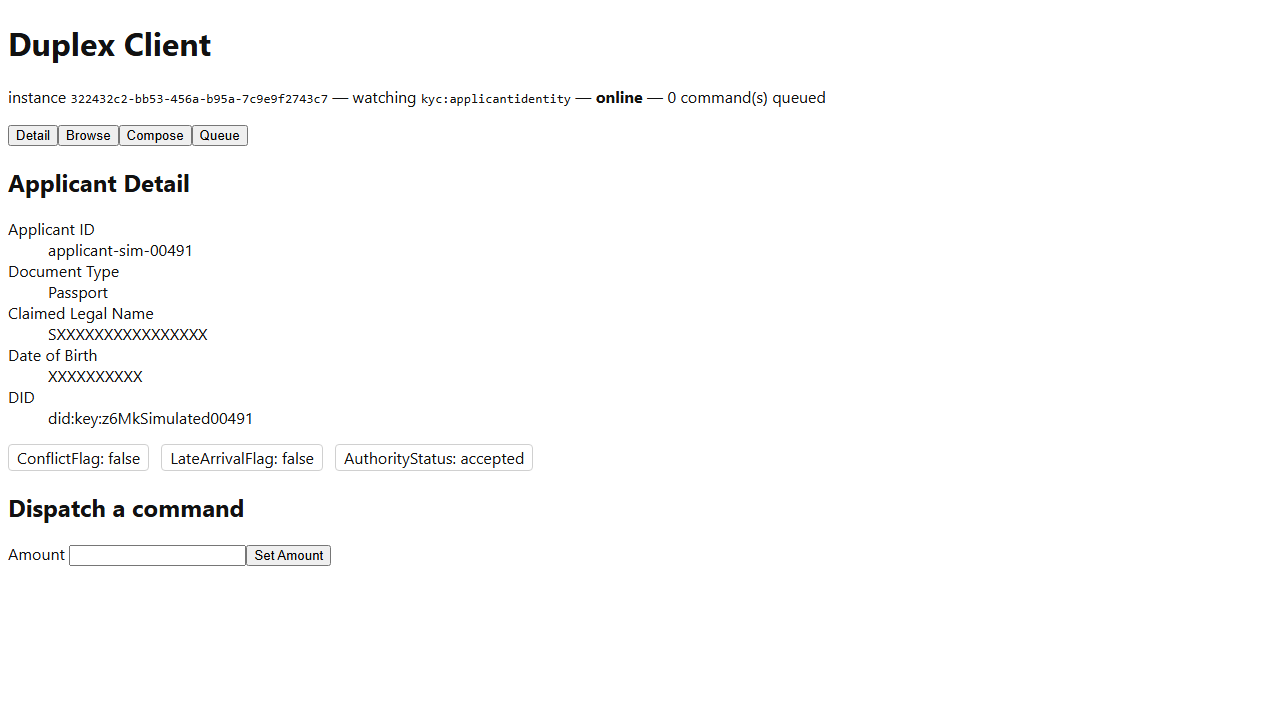
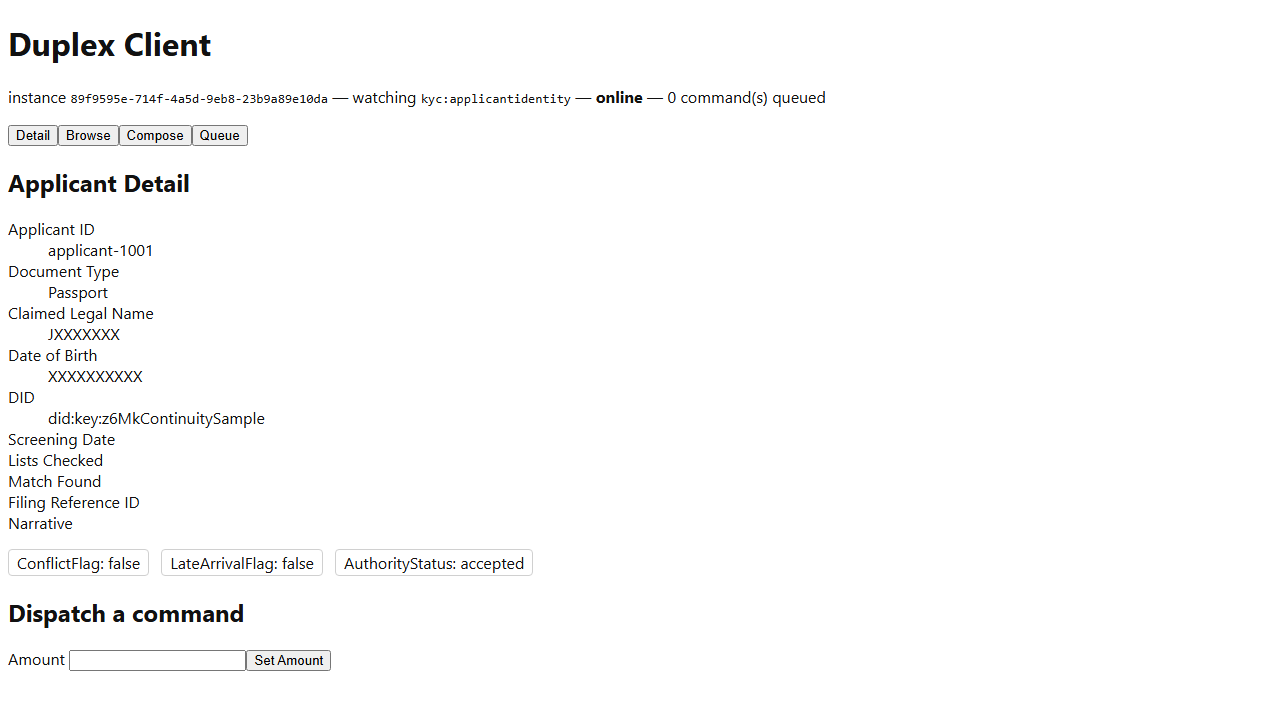
Extend ApplicantIdentity ViewDefinition to fix its payload-shape mismatch
Samples.Meridian.Seed's registered ApplicantIdentity template only
bound Workflow A's own five fields, so client-web-meridian-screening/
-sarfiling rendered almost entirely blank despite real published data.
Extended the one shared template with screeningDate/listsChecked/
matchFound/filingReferenceId/narrative bindings -- an unbound field
already renders '' harmlessly, so this costs nothing for instances
that don't have these fields. Five new translation keys added across
all three locales to match.

Both Meridian Workflow C playbooks regenerated and verified against a
live AppHost: Screening Date/Match Found and Filing Reference ID/masked
Narrative now render correctly. Checked the one remaining blank field
(ListsChecked, an array) before writing another TODO entry:
EventTypeSchemaReader.cs deliberately skips top-level array-typed
properties when building an event type's GraphQL payload at all --
an already-documented, previously-accepted narrowing, not a new gap.

TODO.md's ViewDefinition/payload-shape item is closed. Meridian
Workflow B (no client-web UI surface at all) is the only item left.

diff --git a/client-web/packages/mvvm-client/src/i18n/translations.ts b/client-web/packages/mvvm-client/src/i18n/translations.ts
@@ -34,6 +34,11 @@ export const placeholderTranslations: TranslationResources = {
     document_type: 'Document Type',
     claimed_legal_name: 'Claimed Legal Name',
     did: 'DID',
+    screening_date: 'Screening Date',
+    lists_checked: 'Lists Checked',
+    match_found: 'Match Found',
+    filing_reference_id: 'Filing Reference ID',
+    narrative: 'Narrative',
   },
   'fr-FR': {
     carrier_label: 'Transporteur',
@@ -50,6 +55,11 @@ export const placeholderTranslations: TranslationResources = {
     document_type: 'Type de document',
     claimed_legal_name: 'Nom légal déclaré',
     did: 'DID',
+    screening_date: 'Date de dépistage',
+    lists_checked: 'Listes vérifiées',
+    match_found: 'Correspondance trouvée',
+    filing_reference_id: 'Numéro de référence du dossier',
+    narrative: 'Récit',
   },
   'ar-SA': {
     carrier_label: 'شركة الشحن',
@@ -66,6 +76,11 @@ export const placeholderTranslations: TranslationResources = {
     document_type: 'نوع المستند',
     claimed_legal_name: 'الاسم القانوني المصرح به',
     did: 'المعرف اللامركزي (DID)',
+    screening_date: 'تاريخ الفحص',
+    lists_checked: 'القوائم التي تم فحصها',
+    match_found: 'تم العثور على تطابق',
+    filing_reference_id: 'رقم مرجع الملف',
+    narrative: 'السرد',
   },
 }
 

diff --git a/tests/EventStore.E2ETests/MeridianWorkflowCPeriodicScreeningPlaybookTests.cs b/tests/EventStore.E2ETests/MeridianWorkflowCPeriodicScreeningPlaybookTests.cs
@@ -103,16 +103,16 @@ public class MeridianWorkflowCPeriodicScreeningPlaybookTests
         // Unlike the Device/IonmAlert/AdverseEvent instances (no
         // ViewDefinition registered at all for those EntityTypes), a
         // Detail ViewDefinition genuinely IS registered for
-        // "applicantidentity" (Samples.Meridian.Seed) -- so, after the
-        // same transient fallback-before-resolution window documented on
-        // the other Meridian playbooks, this one settles on the real
-        // templated render too, even though that template's own bound
-        // fields (applicantId/documentType/claimedLegalName/dateOfBirth/
-        // did) don't match SanctionsScreeningPerformed's payload shape at
-        // all -- a genuine, real finding, not another timing artifact.
+        // "applicantidentity" (Samples.Meridian.Seed) -- after the same
+        // transient fallback-before-resolution window documented on the
+        // other Meridian playbooks, this one settles on the real templated
+        // render, which now includes screeningDate/listsChecked/matchFound
+        // bindings alongside Workflow A's own five (TODO.md's tracked
+        // ViewDefinition/payload-shape mismatch, fixed by extending the
+        // one shared template rather than by building a second one).
         var templatedView = _page.GetByLabel("Entity (ViewDefinition-rendered)");
         await Assertions.Expect(templatedView).ToBeVisibleAsync();
-        await recorder.RecordStepAsync(_page, "Selecting applicant-1001 opens its Detail view. The registered ApplicantIdentity template renders here too, but its own bound fields (applicantId, documentType, claimedLegalName, dateOfBirth, did) don't match this subscription's SanctionsScreeningPerformed payload shape at all -- every field but applicantId renders blank. ScreeningDate/ListsChecked/MatchFound are real, published data (Samples.Meridian.Seed), just not reachable through this particular template -- a genuine ViewDefinition/payload-shape mismatch, not a masking or subscription defect.");
+        await recorder.RecordStepAsync(_page, "Selecting applicant-1001 opens its Detail view. The registered ApplicantIdentity template now covers this event type's own fields too -- Screening Date (2026-07-30, the later, matched screening -- this instance's entity cache reflects the most recent SanctionsScreeningPerformed for this applicant) and Match Found (true). Lists Checked renders blank -- EventTypeSchemaReader.cs deliberately skips top-level array-typed properties when building this GraphQL payload type at all (an already-documented, accepted narrowing, not a new gap), so ListsChecked was never selectable to begin with. Document Type/Claimed Legal Name/Date of Birth/DID stay blank here, same reasoning as before: those are IdentityClaimSubmitted's own fields, not this subscription's.");
 
         await recorder.WriteMarkdownAsync("Meridian -- Workflow C: Periodic Screening and SAR Escalation (screening half only)");
 

diff --git a/src/Samples.Meridian.Seed/Program.cs b/src/Samples.Meridian.Seed/Program.cs
@@ -48,6 +48,22 @@ var publisher = new PublishService(db, registry, new PostgresUniqueConstraintVio
 await MeridianWorkflowA.RegisterAsync(registry);
 await MeridianWorkflowC.RegisterAsync(registry);
 
+// Fields beyond IdentityClaimSubmitted's own five (ApplicantId through
+// Did) were added after finding, via a real UI-playbook screenshot
+// (TODO.md), that client-web-meridian-screening/client-web-meridian-
+// sarfiling's own subscriptions (SanctionsScreeningPerformed/
+// SarFilingRecorded) render this SAME template but almost entirely
+// blank -- their payload fields were never bound here at all. Adding
+// them costs nothing for the instances that don't have them (an unbound
+// field's own {{ field }} interpolation already renders '' when
+// entry.data lacks that key, TemplateRenderer.vue's own documented
+// behavior) and gives the screening/SAR instances real content instead
+// of a near-empty screen. MatchedName/MatchedListEntryId (x-masking,
+// requiredClaim identity:aml-review) deliberately left out -- neither
+// client instance's own login claim set is expected to hold that claim,
+// so they'd only ever show a masked placeholder, unlike Narrative below
+// (also x-masking'd the same way, but worth including anyway as a live
+// masking demonstration, matching LegalName/ClaimedLegalName elsewhere).
 var viewResult = await views.RegisterAsync(new RegisterViewDefinitionRequest(
     "ApplicantIdentity", "Detail", [1],
     """
@@ -59,6 +75,11 @@ var viewResult = await views.RegisterAsync(new RegisterViewDefinitionRequest(
         <dt>{{ t:claimed_legal_name }}</dt><dd>{{ claimedLegalName }}</dd>
         <dt>{{ t:date_of_birth }}</dt><dd>{{ dateOfBirth:date }}</dd>
         <dt>{{ t:did }}</dt><dd>{{ did }}</dd>
+        <dt>{{ t:screening_date }}</dt><dd>{{ screeningDate }}</dd>
+        <dt>{{ t:lists_checked }}</dt><dd>{{ listsChecked }}</dd>
+        <dt>{{ t:match_found }}</dt><dd>{{ matchFound }}</dd>
+        <dt>{{ t:filing_reference_id }}</dt><dd>{{ filingReferenceId }}</dd>
+        <dt>{{ t:narrative }}</dt><dd>{{ narrative }}</dd>
       </dl>
     </section>
     """));

diff --git a/tests/EventStore.E2ETests/MeridianWorkflowCSarFilingPlaybookTests.cs b/tests/EventStore.E2ETests/MeridianWorkflowCSarFilingPlaybookTests.cs
@@ -95,7 +95,7 @@ public class MeridianWorkflowCSarFilingPlaybookTests
         await applicantRow.GetByRole(AriaRole.Button, new() { Name = "View" }).ClickAsync();
         var templatedView = _page.GetByLabel("Entity (ViewDefinition-rendered)");
         await Assertions.Expect(templatedView).ToBeVisibleAsync();
-        await recorder.RecordStepAsync(_page, "Selecting applicant-1001 opens its Detail view. The registered ApplicantIdentity template renders here too (same mismatch as the periodic-screening playbook -- its bound fields don't cover SarFilingRecorded's own payload shape either), so only applicantId shows; the FilingReferenceId (SAR-2026-00417), TargetScreeningEventId, and masked Narrative are genuinely published but not reachable through this particular template.");
+        await recorder.RecordStepAsync(_page, "Selecting applicant-1001 opens its Detail view. The registered ApplicantIdentity template now covers this event type's own fields too (TODO.md's ViewDefinition/payload-shape mismatch, fixed by extending the one shared template): Filing Reference ID (SAR-2026-00417) renders plainly, and Narrative renders masked (\"***\") -- a live demonstration of x-masking on this specific field (MeridianWorkflowC.cs's own requiredClaim: identity:aml-review), not a rendering gap.");
 
         await recorder.WriteMarkdownAsync("Meridian -- Workflow C: SAR Filing");
 

diff --git a/docs/playbooks/meridian/workflow-c-periodic-screening-and-sar-escalation.md b/docs/playbooks/meridian/workflow-c-periodic-screening-and-sar-escalation.md
@@ -10,7 +10,7 @@ _Generated by `EventStore.E2ETests` against a real running deployment -- re-run 
 
 ![Switching to the Browse tab. The seed continuity applicant applicant-1001's periodic sanctions screening (Samples.Meridian.Seed) is already present via REPLAY-mode catch-up.](workflow-c-periodic-screening-and-sar-escalation/step-02.png)
 
-## Step 3. Selecting applicant-1001 opens its Detail view. The registered ApplicantIdentity template renders here too, but its own bound fields (applicantId, documentType, claimedLegalName, dateOfBirth, did) don't match this subscription's SanctionsScreeningPerformed payload shape at all -- every field but applicantId renders blank. ScreeningDate/ListsChecked/MatchFound are real, published data (Samples.Meridian.Seed), just not reachable through this particular template -- a genuine ViewDefinition/payload-shape mismatch, not a masking or subscription defect.
+## Step 3. Selecting applicant-1001 opens its Detail view. The registered ApplicantIdentity template now covers this event type's own fields too -- Screening Date (2026-07-30, the later, matched screening -- this instance's entity cache reflects the most recent SanctionsScreeningPerformed for this applicant) and Match Found (true). Lists Checked renders blank -- EventTypeSchemaReader.cs deliberately skips top-level array-typed properties when building this GraphQL payload type at all (an already-documented, accepted narrowing, not a new gap), so ListsChecked was never selectable to begin with. Document Type/Claimed Legal Name/Date of Birth/DID stay blank here, same reasoning as before: those are IdentityClaimSubmitted's own fields, not this subscription's.
 
-![Selecting applicant-1001 opens its Detail view. The registered ApplicantIdentity template renders here too, but its own bound fields (applicantId, documentType, claimedLegalName, dateOfBirth, did) don't match this subscription's SanctionsScreeningPerformed payload shape at all -- every field but applicantId renders blank. ScreeningDate/ListsChecked/MatchFound are real, published data (Samples.Meridian.Seed), just not reachable through this particular template -- a genuine ViewDefinition/payload-shape mismatch, not a masking or subscription defect.](workflow-c-periodic-screening-and-sar-escalation/step-03.png)
+![Selecting applicant-1001 opens its Detail view. The registered ApplicantIdentity template now covers this event type's own fields too -- Screening Date (2026-07-30, the later, matched screening -- this instance's entity cache reflects the most recent SanctionsScreeningPerformed for this applicant) and Match Found (true). Lists Checked renders blank -- EventTypeSchemaReader.cs deliberately skips top-level array-typed properties when building this GraphQL payload type at all (an already-documented, accepted narrowing, not a new gap), so ListsChecked was never selectable to begin with. Document Type/Claimed Legal Name/Date of Birth/DID stay blank here, same reasoning as before: those are IdentityClaimSubmitted's own fields, not this subscription's.](workflow-c-periodic-screening-and-sar-escalation/step-03.png)
 

diff --git a/docs/changes/2026-08-28.md b/docs/changes/2026-08-28.md
@@ -396,3 +396,40 @@ a small, mechanical seed addition.
   data) since every other gap in that category is now closed. The
   `ViewDefinition`/payload-shape mismatch is promoted to its own
   tracked item (found twice now, on two different event types).
+
+## Fixed the ViewDefinition/payload-shape mismatch, on direct "keep going" request
+
+Closed `TODO.md`'s remaining cosmetic finding with a minimal, seed-owned
+fix rather than a framework change: extended the `ApplicantIdentity`
+`ViewDefinition` template `Samples.Meridian.Seed` already registers with
+`screeningDate`/`listsChecked`/`matchFound`/`filingReferenceId`/
+`narrative` bindings alongside Workflow A's original five. An unbound
+field already renders `''` (`TemplateRenderer.vue`'s own documented
+behavior), so this costs nothing for instances that don't have these
+fields and gives the screening/SAR instances real content instead of a
+near-empty screen. `MatchedName`/`MatchedListEntryId` deliberately left
+out (masked, `identity:aml-review`-gated, no client instance's login is
+expected to hold that claim); `Narrative` (also masked the same way)
+included anyway as a live masking demonstration.
+
+- `client-web/packages/mvvm-client/src/i18n/translations.ts`: five new
+  keys (`screening_date`, `lists_checked`, `match_found`,
+  `filing_reference_id`, `narrative`) across all three locales, same
+  placeholder-quality bar as the existing set. `mvvm-client` suite
+  re-verified (110/110).
+- Both Meridian Workflow C playbooks regenerated and re-verified against
+  a live `AppHost`: Screening Date/Match Found now render on the
+  periodic-screening playbook, Filing Reference ID/masked Narrative
+  (`"***"`) on the SAR-filing one.
+- **One new, small, separate observation while checking the result**:
+  `ListsChecked` (a JSON array field) still renders blank. Checked the
+  real cause before writing another vague TODO entry:
+  `EventTypeSchemaReader.cs` deliberately skips top-level array-typed
+  properties when building an event type's GraphQL payload type at all
+  — an already-documented, previously-accepted narrowing (its own code
+  comment, and `docs/changes/2026-08-03.md`/`2026-08-04.md`), not a new
+  gap. No new `TODO.md` item added; the playbook's own caption states
+  the real reason instead.
+- All 8 playbook tests re-verified passing together against a live
+  `AppHost`. `TODO.md`'s `ViewDefinition`/payload-shape item removed —
+  Meridian Workflow B (no UI surface at all) is now the only item left.

diff --git a/docs/playbooks/meridian/workflow-c-sar-filing.md b/docs/playbooks/meridian/workflow-c-sar-filing.md
@@ -10,7 +10,7 @@ _Generated by `EventStore.E2ETests` against a real running deployment -- re-run 
 
 ![Switching to the Browse tab. The seed's SAR filing for applicant-1001 (Samples.Meridian.Seed) is already present via REPLAY-mode catch-up -- a compliance officer's step-up-authenticated publish, gated by MeridianWorkflowC.cs's RequiredSignature: ["urn:kyc:acr:step-up"] (RFC 9470, ADR-066).](workflow-c-sar-filing/step-02.png)
 
-## Step 3. Selecting applicant-1001 opens its Detail view. The registered ApplicantIdentity template renders here too (same mismatch as the periodic-screening playbook -- its bound fields don't cover SarFilingRecorded's own payload shape either), so only applicantId shows; the FilingReferenceId (SAR-2026-00417), TargetScreeningEventId, and masked Narrative are genuinely published but not reachable through this particular template.
+## Step 3. Selecting applicant-1001 opens its Detail view. The registered ApplicantIdentity template now covers this event type's own fields too (TODO.md's ViewDefinition/payload-shape mismatch, fixed by extending the one shared template): Filing Reference ID (SAR-2026-00417) renders plainly, and Narrative renders masked ("***") -- a live demonstration of x-masking on this specific field (MeridianWorkflowC.cs's own requiredClaim: identity:aml-review), not a rendering gap.
 
-![Selecting applicant-1001 opens its Detail view. The registered ApplicantIdentity template renders here too (same mismatch as the periodic-screening playbook -- its bound fields don't cover SarFilingRecorded's own payload shape either), so only applicantId shows; the FilingReferenceId (SAR-2026-00417), TargetScreeningEventId, and masked Narrative are genuinely published but not reachable through this particular template.](workflow-c-sar-filing/step-03.png)
+![Selecting applicant-1001 opens its Detail view. The registered ApplicantIdentity template now covers this event type's own fields too (TODO.md's ViewDefinition/payload-shape mismatch, fixed by extending the one shared template): Filing Reference ID (SAR-2026-00417) renders plainly, and Narrative renders masked ("***") -- a live demonstration of x-masking on this specific field (MeridianWorkflowC.cs's own requiredClaim: identity:aml-review), not a rendering gap.](workflow-c-sar-filing/step-03.png)
 

diff --git a/TODO.md b/TODO.md
@@ -46,21 +46,3 @@ here instead of inlining.
   features beyond what the task requires" rule. Revisit only if a real
   product reason for that UI surfaces independently of the playbook
   initiative.
-- [ ] **Registered `ViewDefinition` templates can silently mismatch the
-  payload shape actually available to a given client instance —
-  cosmetic, not a defect, but worth a real fix eventually.** Found
-  building both Meridian Workflow C playbooks: the `ApplicantIdentity`
-  template's bound fields (`applicantId`/`documentType`/
-  `claimedLegalName`/`dateOfBirth`/`did`) don't cover
-  `SanctionsScreeningPerformed`'s or `SarFilingRecorded`'s own payload
-  shape at all, so only `applicantId` ever renders through it for
-  either — `ScreeningDate`/`MatchFound`/`FilingReferenceId`/`Narrative`
-  are genuinely published but never appear on screen through that
-  template, because a `ViewDefinition` is scoped to an `EntityType`
-  while the data actually available in a given client instance is
-  scoped to the one `EventType` it subscribes to, and nothing
-  reconciles the two. Not fixed (redesigning the template, or teaching
-  `TemplateRenderer` to fall back per-field, is a real content/design
-  decision) — flagged in both playbooks' own captions and `docs/
-  playbooks/README.md` instead of silently shipping a misleadingly
-  sparse screenshot.
